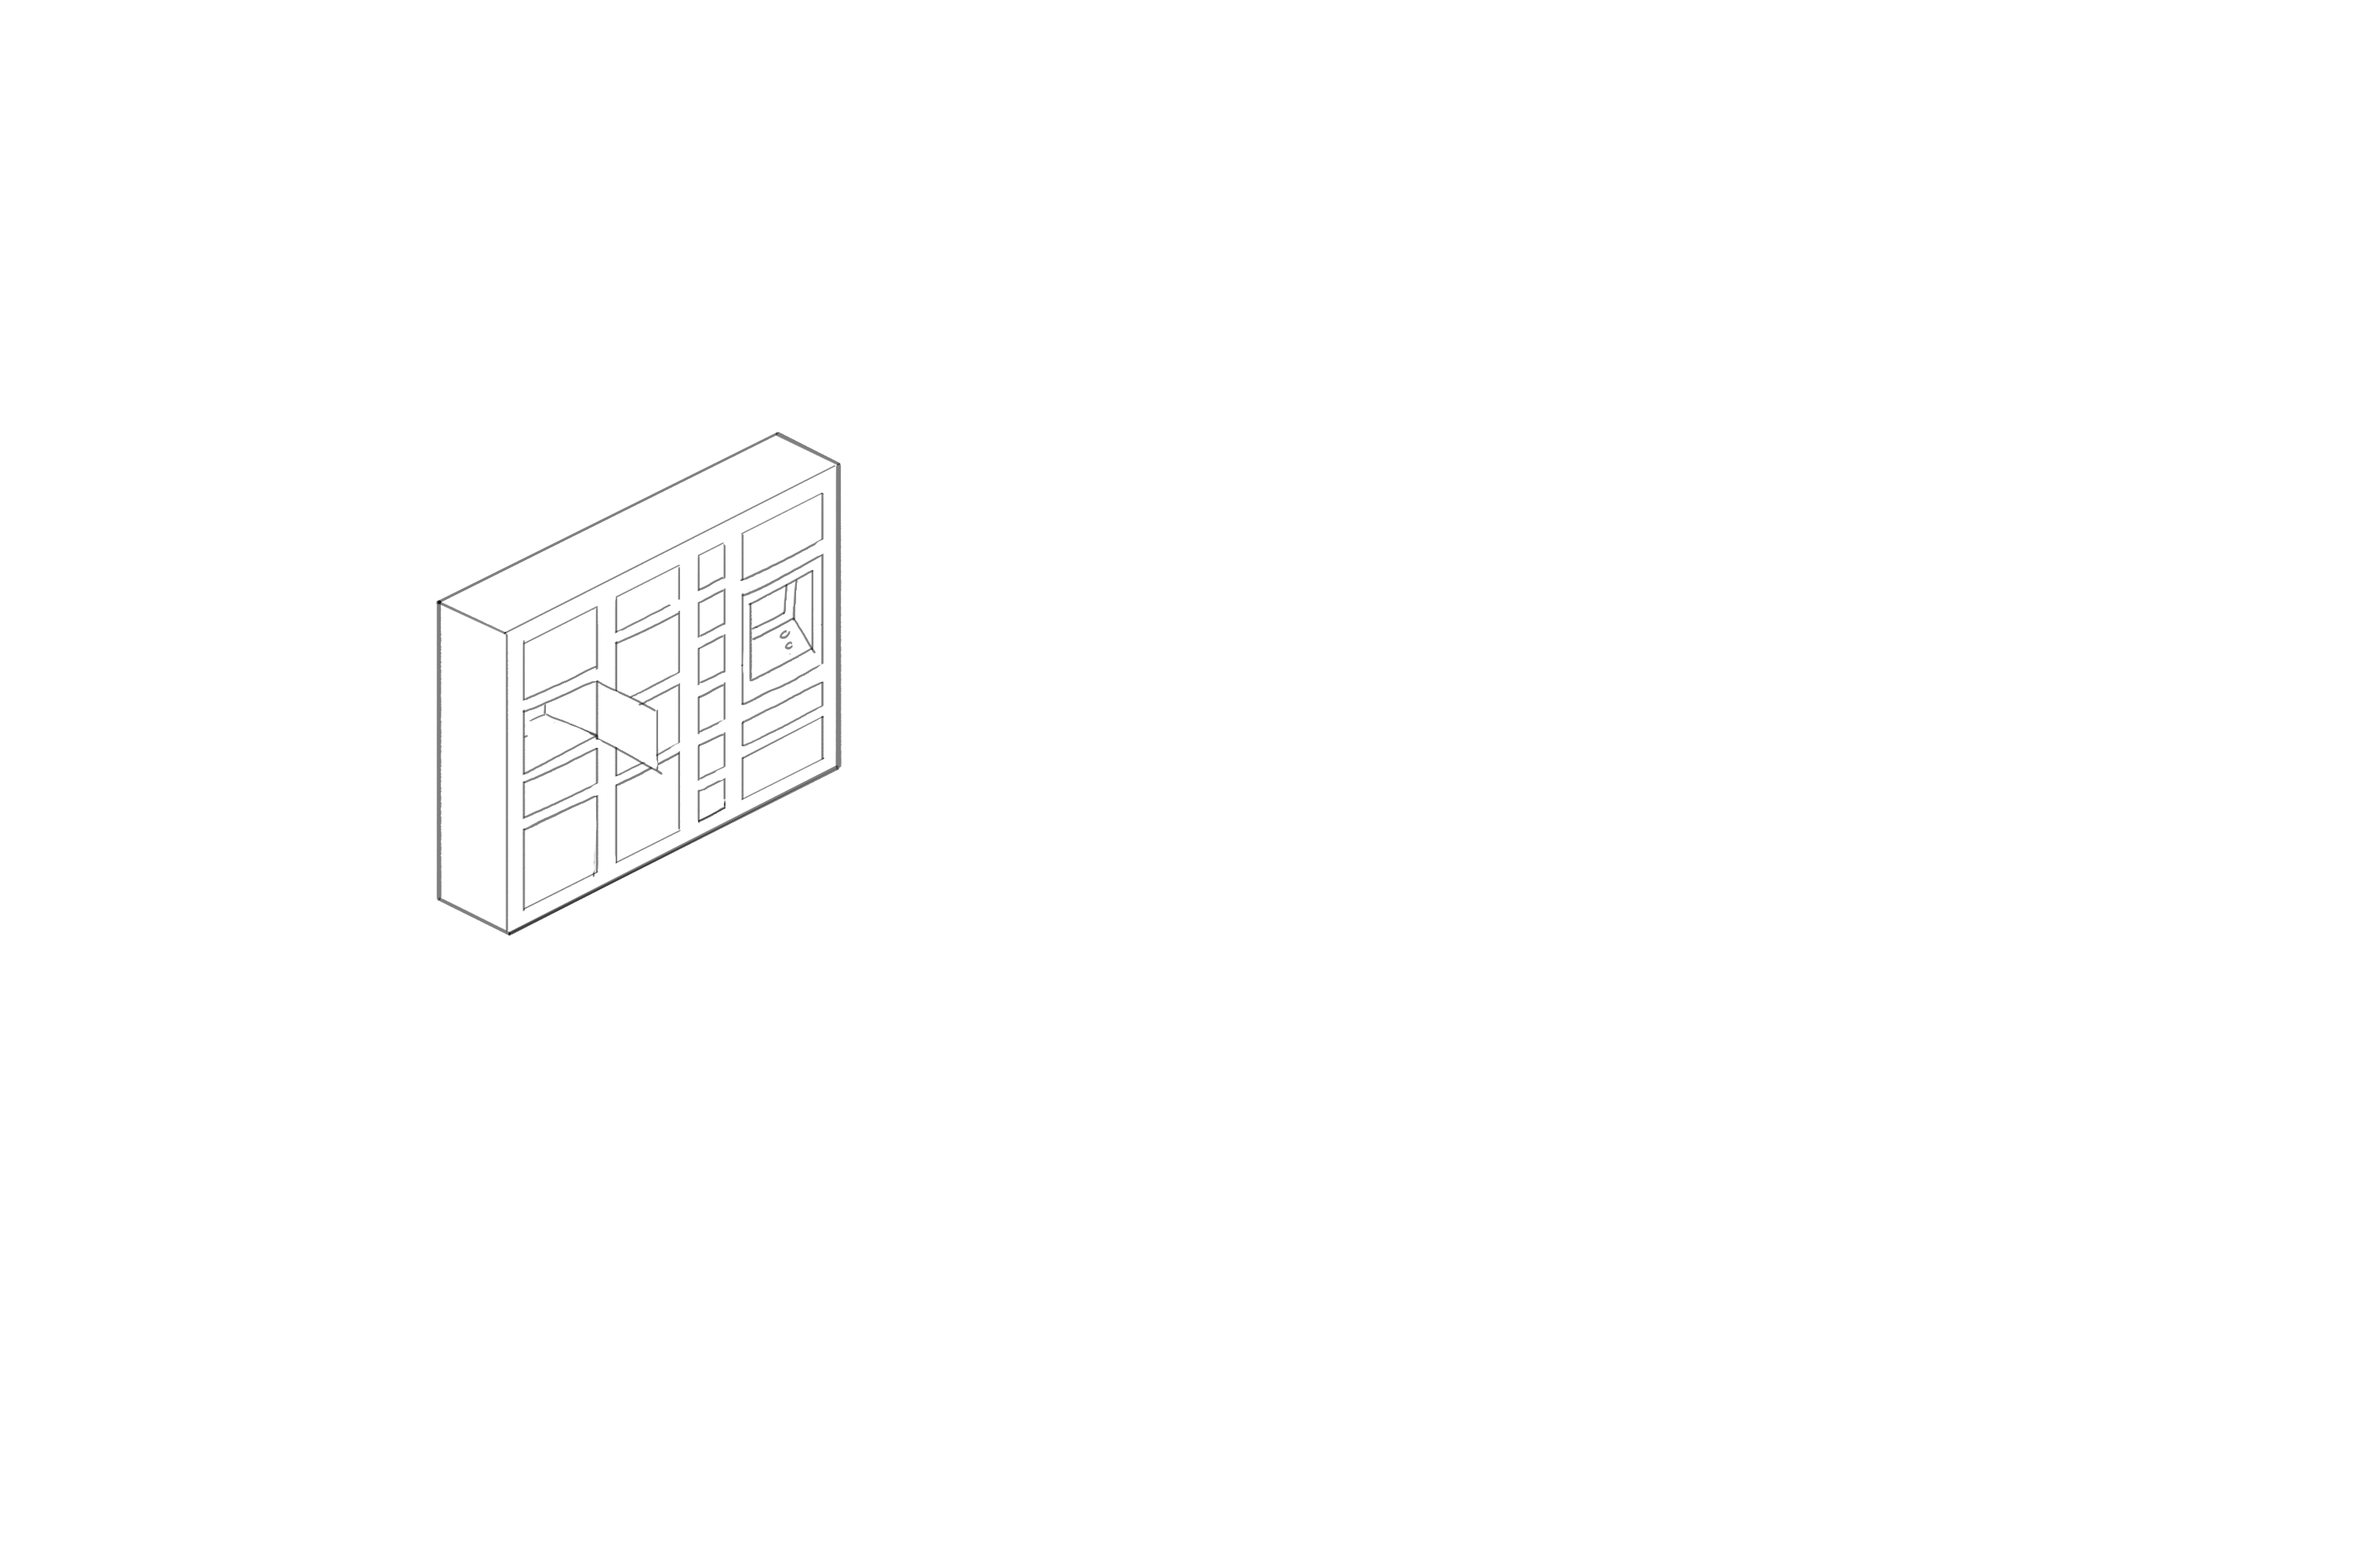
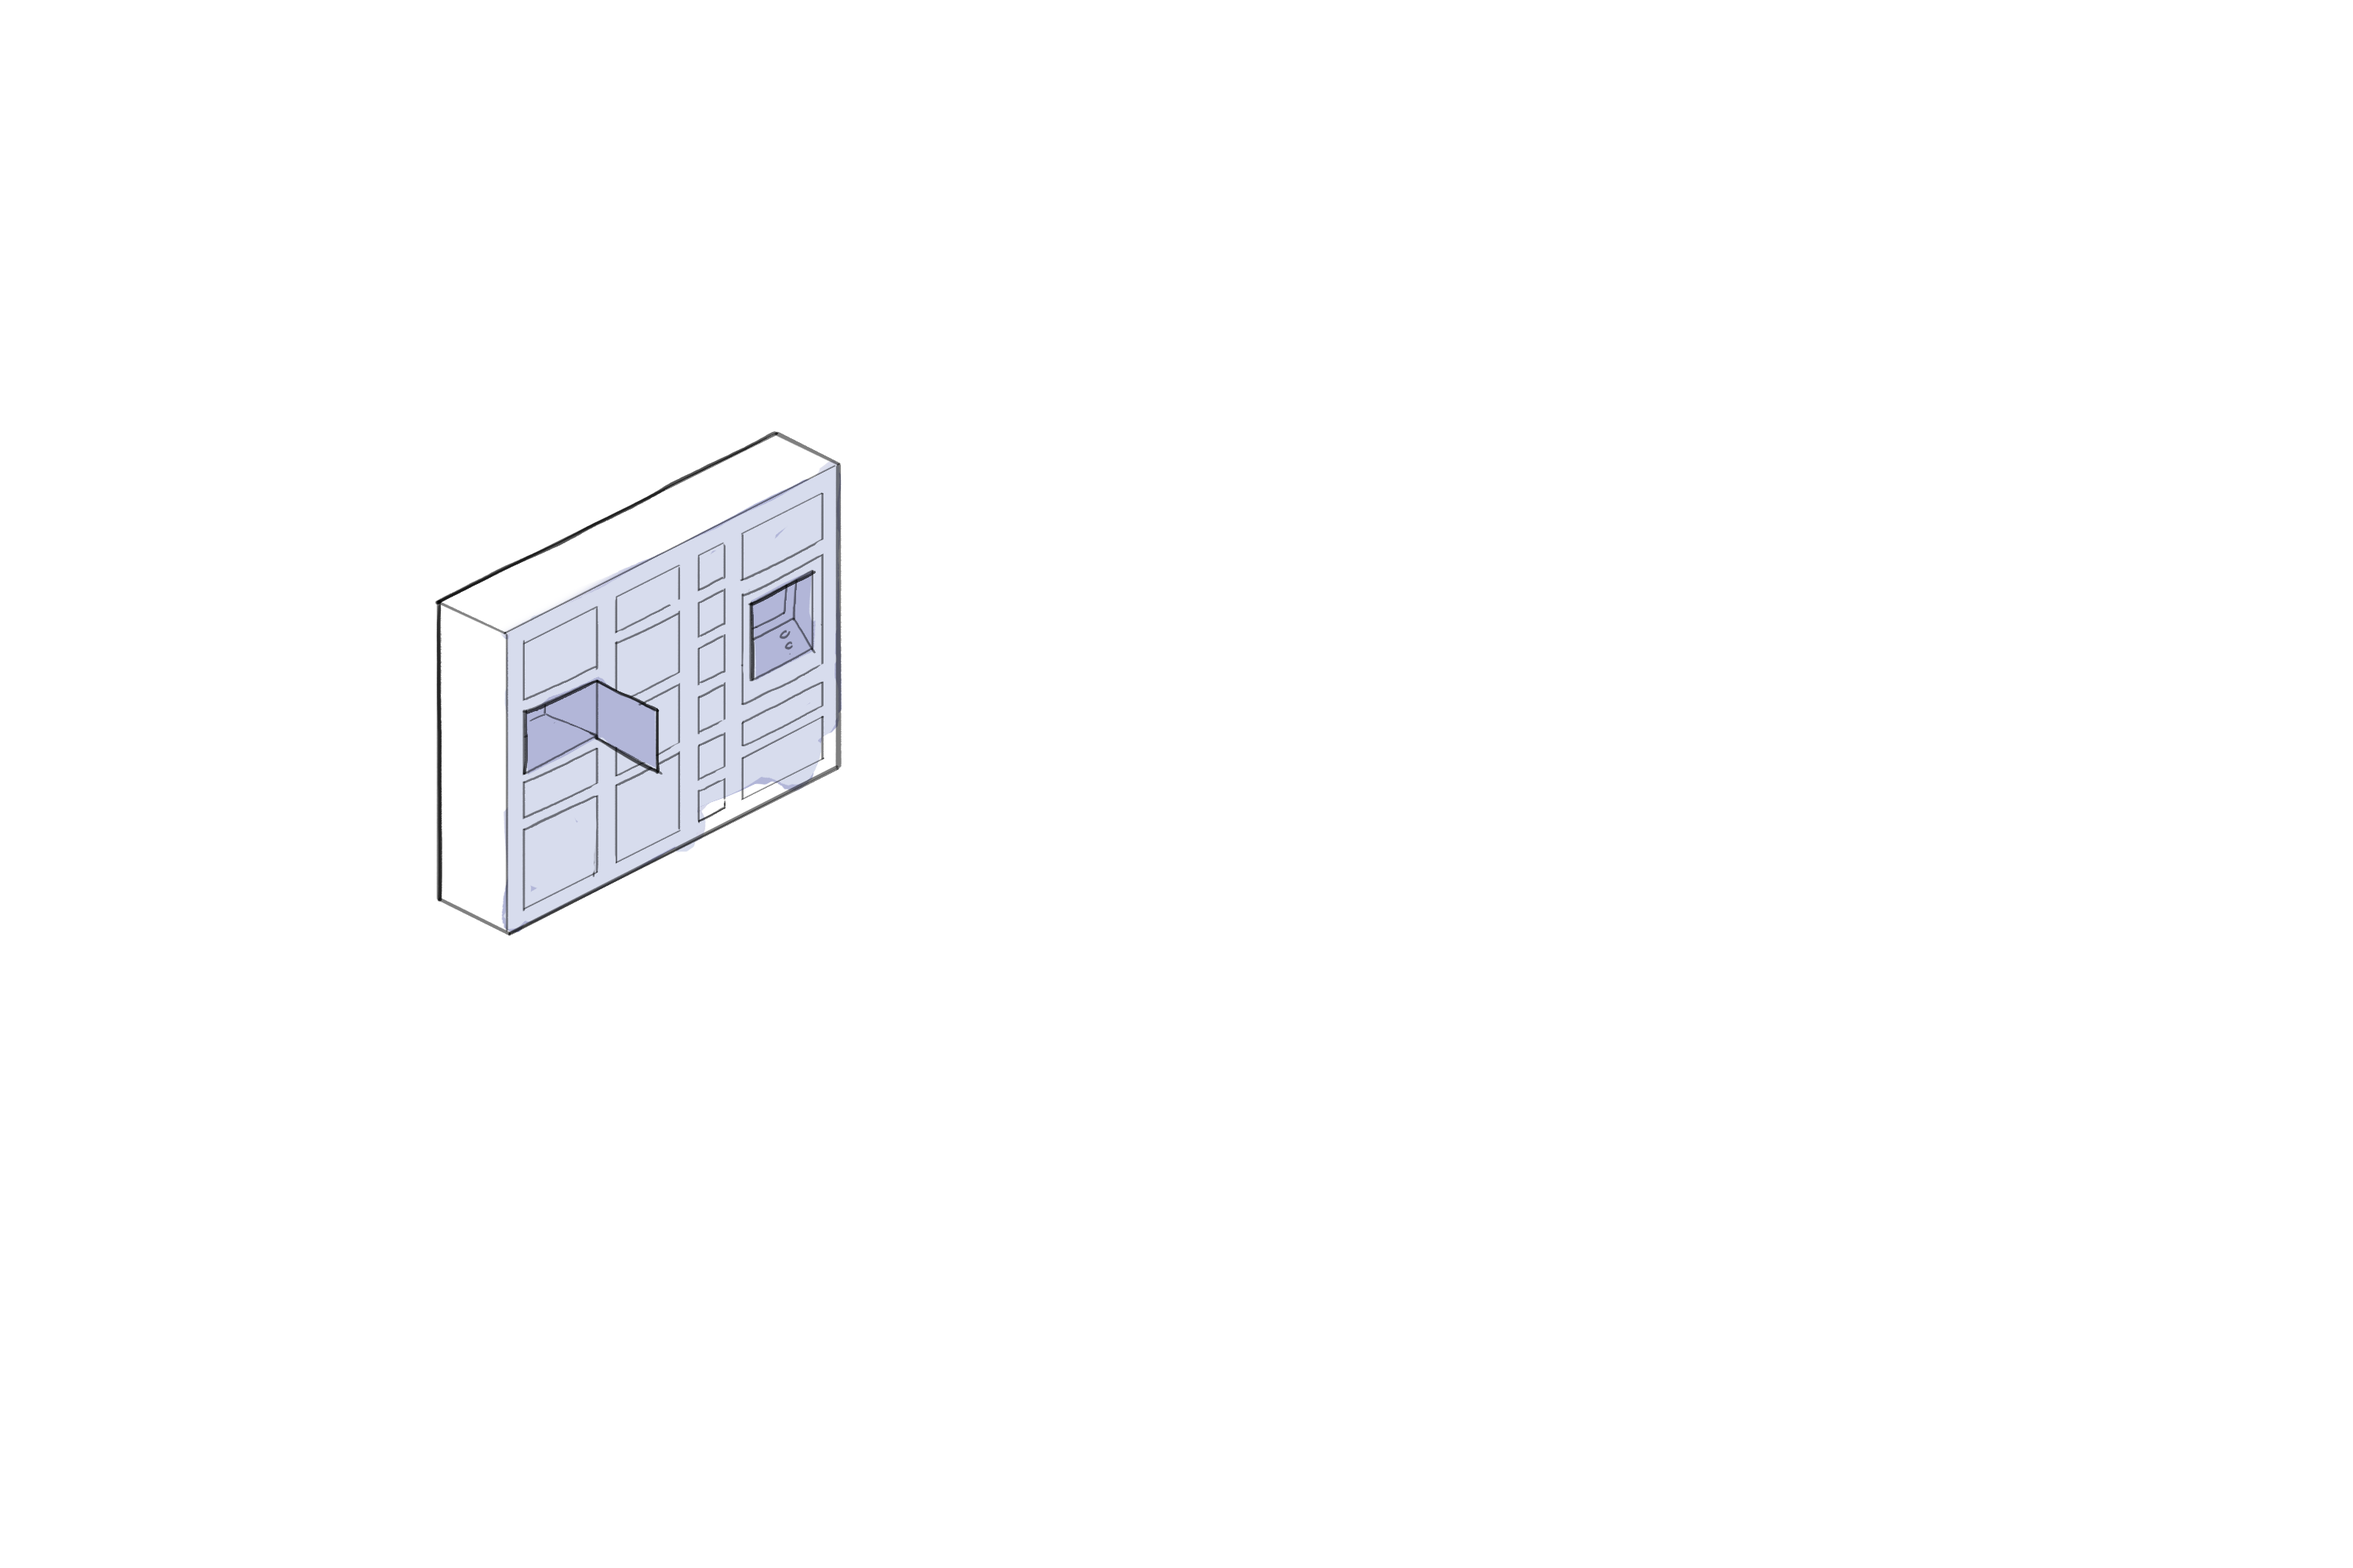
feat: update scene 1 and scene 2 with new art style

Changed region(s): [[0.186, 0.279, 0.372, 0.589]]

diff --git a/src/app/components/scene-1/index.tsx b/src/app/components/scene-1/index.tsx
@@ -5,25 +5,26 @@ import styles from './index.module.css';
 
 import dog from './images/Final-scene-1-merged_0000_dog.png';
 import cat from './images/Final-scene-1-merged_0001_cat.png';
-import props from './images/Final-scene-1-merged_0002_props.png';
+import props from './images/Final-scene-1-merged_0002_table-props.png';
 import hands from './images/Final-scene-1-merged_0003_hands.png';
 import box from './images/Final-scene-1-merged_0004_box.png';
-import chairs from './images/Final-scene-1-merged_0005_chairs.png';
-import table from './images/Final-scene-1-merged_0006_table.png';
-import grandpa from './images/Final-scene-1-merged_0007_grandpa.png';
-import plant from './images/Final-scene-1-merged_0008_plant.png';
-import light from './images/Final-scene-1-merged_0009_light.png';
-import bookshelfAndProps from './images/Final-scene-1-merged_0010_bookshelf-and-props.png';
-import background from './images/Final-scene-1-merged_0011_BG.png';
+import chairLeft from './images/Final-scene-1-merged_0005_chair-left.png';
+import chairRight from './images/Final-scene-1-merged_0006_chair-right.png';
+import table from './images/Final-scene-1-merged_0007_table.png';
+import grandpa from './images/Final-scene-1-merged_0008_grandpa.png';
+import plant from './images/Final-scene-1-merged_0009_plant.png';
+import light from './images/Final-scene-1-merged_0010_light.png';
+import carpet from './images/Final-scene-1-merged_0011_carpet.png';
+import bookshelf from './images/Final-scene-1-merged_0012_booksshelf.png';
 
 export default function Scene1() {
     return (
-        <div className={cn('w-screen h-[2400px] pt-[600px] overflow-hidden flex justify-center', styles.root)}>
+        <div className={cn('w-screen h-[2400px] pt-[200px] overflow-hidden flex justify-center', styles.root)}>
             <div className="aspect-[3/2] w-auto h-[600px] sm:h-[740px] md:h-[1000px] lg:h-[1200px] mx-auto relative">
                 <div className={cn(styles.appear, 'absolute inset-0')}>
                     <ExportedImage
-                        className={styles.background}
-                        src={background}
+                        src={carpet}
+                        className={styles.carpet}
                         alt="Scene 1"
                         fill
                         style={{ objectFit: 'contain' }}
@@ -31,8 +32,8 @@ export default function Scene1() {
                 </div>
                 <div className={cn(styles.appear, 'absolute inset-0')}>
                     <ExportedImage
-                        className={styles.bookshelfAndProps}
-                        src={bookshelfAndProps}
+                        className={styles.bookshelf}
+                        src={bookshelf}
                         alt="Scene 1"
                         fill
                         style={{ objectFit: 'contain' }}
@@ -77,7 +78,16 @@ export default function Scene1() {
                 <div className={cn(styles.appear, 'absolute inset-0')}>
                     <ExportedImage
                         className={styles.chairs}
-                        src={chairs}
+                        src={chairLeft}
+                        alt="Scene 1"
+                        fill
+                        style={{ objectFit: 'contain' }}
+                    />
+                </div>
+                <div className={cn(styles.appear, 'absolute inset-0')}>
+                    <ExportedImage
+                        className={styles.chairs}
+                        src={chairRight}
                         alt="Scene 1"
                         fill
                         style={{ objectFit: 'contain' }}

diff --git a/src/app/components/scene-2/index.module.css b/src/app/components/scene-2/index.module.css
@@ -7,66 +7,77 @@
     animation-name: background;
     animation-timeline: --scene-2-scroll;
     animation-range: cover 0% cover 100%;
+    animation-fill-mode: both;
 }
 
 .bg {
     animation-name: bg;
     animation-timeline: --scene-2-scroll;
     animation-range: cover 0% cover 100%;
+    animation-fill-mode: both;
 }
 
 .platform {
     animation-name: platform;
     animation-timeline: --scene-2-scroll;
     animation-range: cover 0% cover 100%;
+    animation-fill-mode: both;
 }
 
 .tree {
     animation-name: tree;
     animation-timeline: --scene-2-scroll;
     animation-range: cover 0% cover 100%;
+    animation-fill-mode: both;
 }
 
 .road {
     animation-name: road;
     animation-timeline: --scene-2-scroll;
     animation-range: cover 0% cover 100%;
+    animation-fill-mode: both;
 }
 
 .mailbox {
     animation-name: mailbox;
     animation-timeline: --scene-2-scroll;
     animation-range: cover 0% cover 100%;
+    animation-fill-mode: both;
 }
 
 .deliveryGuy {
     animation-name: deliveryGuy;
     animation-timeline: --scene-2-scroll;
     animation-range: cover 0% cover 100%;
+    animation-fill-mode: both;
 }
 
 .van {
     animation-name: van;
     animation-timeline: --scene-2-scroll;
     animation-range: cover 0% cover 60%;
+    animation-fill-mode: both;
 }
 
 .arrows {
     animation-name: arrows;
     animation-timeline: --scene-2-scroll;
     animation-range: cover 0% cover 100%;
+    animation-fill-mode: both;
 }
 
 .cabinet {
     animation-name: cabinet;
     animation-timeline: --scene-2-scroll;
     animation-range: cover 0% cover 100%;
+    animation-fill-mode: both;
 }
 
 .grandpa {
     animation-name: grandpa;
     animation-timeline: --scene-2-scroll;
     animation-range: cover 0% cover 100%;
+    animation-fill-mode: both;
 }
 
 @keyframes background {
@@ -133,7 +144,7 @@
 }
 
 :root {
-    --van-movement-percentage: 40%;
+    --van-movement-percentage: 20%;
 }
 
 @keyframes van {

diff --git a/src/app/components/Footer/index.tsx b/src/app/components/Footer/index.tsx
@@ -7,7 +7,7 @@ export default function Footer() {
                         <path d="M12 0L0 12H24L12 0Z" fill="#f6f6f6" />
                     </pattern>
                 </defs>
-                <rect width="100%" height="12" fill="#d9d9d9" />
+                <rect width="100%" height="12" fill="#e9ebf1" />
                 <rect width="100%" height="12" fill="url(#footer-pattern)" />
             </svg>
             <div className="max-w-7xl mx-auto py-24 px-4">
@@ -26,7 +26,7 @@ export default function Footer() {
                             <a href="https://falkland.studio" target="_blank" className="hover:opacity-80 transition-opacity">
                                 <img src="/falkland-logo.svg" alt="Falkland" className="w-24" />
                             </a>
-                            <p>Yaël van Engelen</p>
+                            <p className="font-semibold tracking-tight">Yaël van Engelen</p>
                         </div>
                     </div>
                     <div className="flex flex-col gap-2 flex-wrap">
@@ -57,7 +57,7 @@ export default function Footer() {
                             <a href="https://studio-tast.nl" target="_blank" className="hover:opacity-80 transition-opacity">
                                 <img src="/studio-tast-logo.svg" alt="SIDN Labs" className="w-30" />
                             </a>
-                            <p>Henrik van Leeuwen</p>
+                            <p className="font-semibold tracking-tight">Henrik van Leeuwen</p>
                             <a href="https://falkland.studio" target="_blank" className="hover:opacity-80 transition-opacity">
                                 <img src="/falkland-logo.svg" alt="Falkland" className="w-24" />
                             </a>

diff --git a/src/app/components/scene-2/index.tsx b/src/app/components/scene-2/index.tsx
@@ -13,19 +13,11 @@ import mailbox from './images/Final-scene-2-merged_0006_mailbox.png';
 import tree from './images/Final-scene-2-merged_0007_tree.png';
 import platform from './images/Final-scene-2-merged_0008_platform.png';
 import bg from './images/Final-scene-2-merged_0009_bg.png';
-import background from './images/Final-scene-2-merged_0010_Background.png';
 
 export default function Scene2() {
     return (
-        <div className={cn('w-screen h-[2400px] pt-[600px] overflow-hidden flex justify-center', styles.root)}>
+        <div className={cn('w-screen h-[1600px] overflow-hidden flex justify-center', styles.root)}>
             <div className="aspect-[3/2] w-auto h-[600px] sm:h-[740px] md:h-[1000px] lg:h-[1200px] mx-auto relative">
-                <ExportedImage
-                    className={styles.background}
-                    src={background}
-                    alt="Scene 2"
-                    fill
-                    style={{ objectFit: 'contain' }}
-                />
                 <ExportedImage
                     className={styles.bg}
                     src={bg}

diff --git a/src/app/components/scene-1/index.module.css b/src/app/components/scene-1/index.module.css
@@ -35,7 +35,7 @@
 .box {
     animation-name: box;
     animation-timeline: --scene-1-scroll;
-    animation-range: cover 0% cover 100%;
+    animation-range: cover 10% cover 60%;
     animation-fill-mode: both;
 }
 
@@ -137,16 +137,20 @@
 
 @keyframes hands {
     from {
-        transform: translateY(-200px);
+        transform: translateY(0);
     }
     to {
         transform: translateY(0);
     }
 }
 
+:root {
+    --box-movement-percentage: 5%;
+}
+
 @keyframes box {
     from {
-        transform: translateY(-400px);
+        transform: translate(calc(var(--box-movement-percentage)), calc(var(--box-movement-percentage) * tan(26.4deg) * 1.5 * -1));
     }
     to {
         transform: translateY(0);
@@ -173,7 +177,7 @@
 
 @keyframes grandpa {
     from {
-        transform: translateY(-200px);
+        transform: translateY(0px);
     }
     to {
         transform: translateY(0);

diff --git a/src/app/globals.css b/src/app/globals.css
@@ -6,5 +6,5 @@
 }
 
 body {
-    background-color: #D9D9D9;
+    background-color: #e9ebf1;
 }
